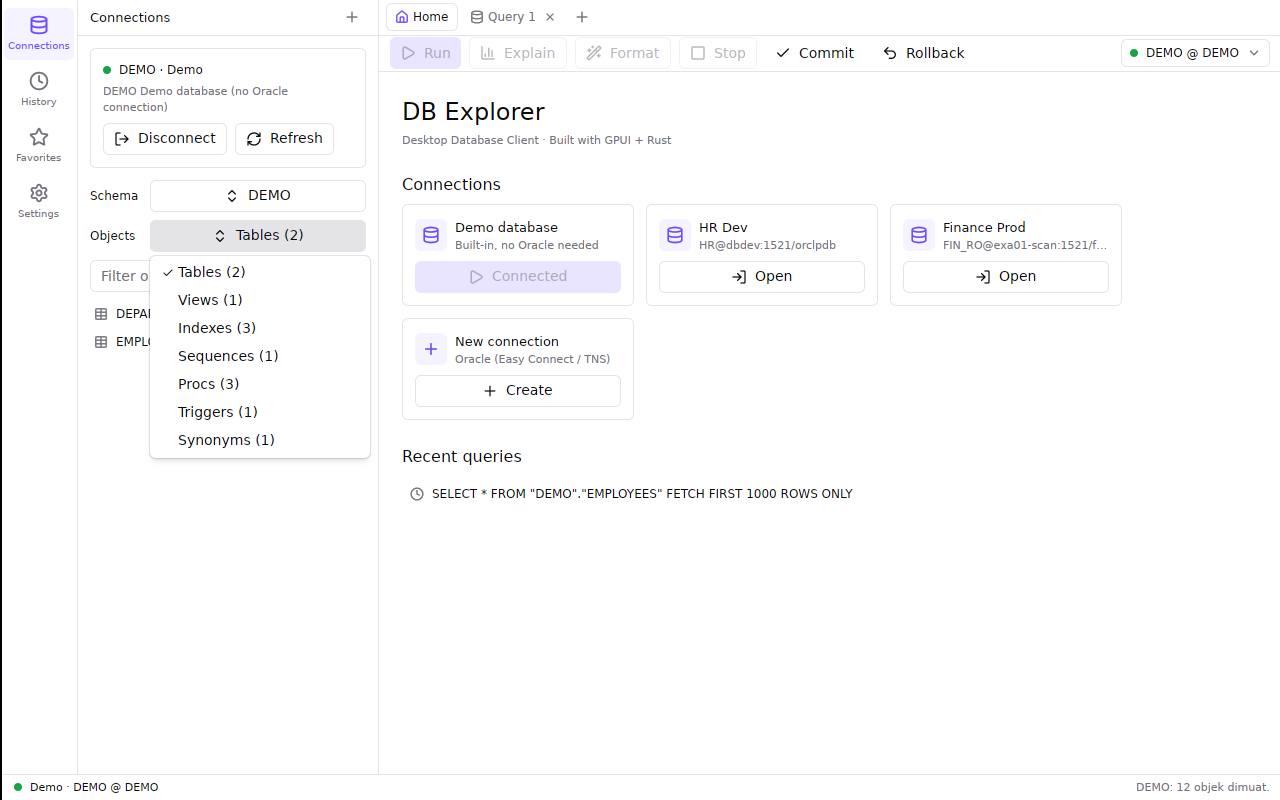
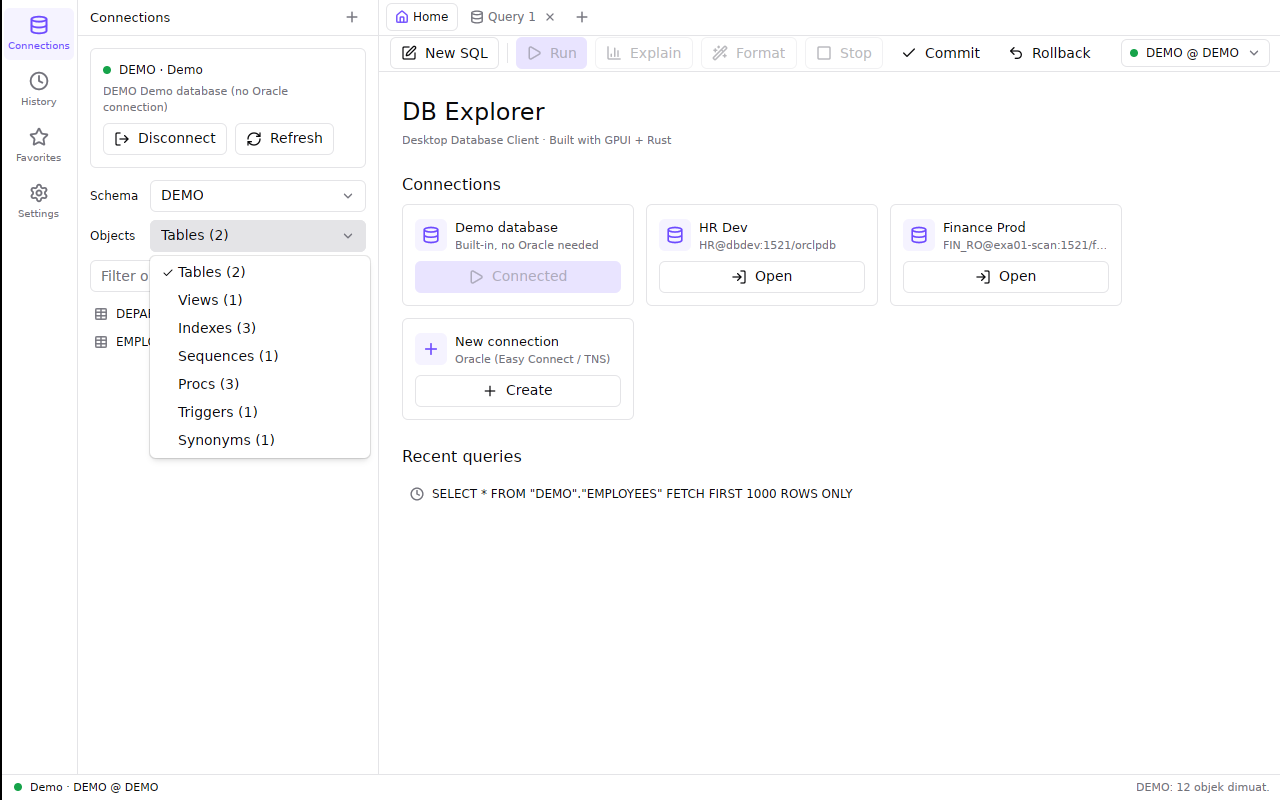
fix(app): rata kiri isi dropdown schema dan jenis objek
Claude-Session: https://claude.ai/code/session_01VYjtnQEPZpDZhWmpvkRxNR

diff --git a/crates/app/src/workbench.rs b/crates/app/src/workbench.rs
@@ -2057,8 +2057,10 @@ impl Workbench {
         let schemas = self.schemas.clone();
         let current = self.current_schema.clone();
         let schema_button = Button::new("schema-select")
-            .label(current.clone().unwrap_or_else(|| "(schema)".to_string()))
-            .icon(IconName::ChevronsUpDown)
+            .child(select_trigger(
+                current.clone().unwrap_or_else(|| "(schema)".to_string()),
+                theme,
+            ))
             .w_full()
             .disabled(self.schemas.is_empty())
             .dropdown_menu(move |menu, _, _| {
@@ -2085,12 +2087,14 @@ impl Workbench {
             .collect();
         let current_category = self.category;
         let category_button = Button::new("category-select")
-            .label(format!(
-                "{} ({})",
-                current_category.label(),
-                schema::count_in(&self.objects, current_category)
+            .child(select_trigger(
+                format!(
+                    "{} ({})",
+                    current_category.label(),
+                    schema::count_in(&self.objects, current_category)
+                ),
+                theme,
             ))
-            .icon(IconName::ChevronsUpDown)
             .w_full()
             .dropdown_menu(move |menu, _, _| {
                 let mut menu = menu.min_w(px(220.));
@@ -3690,6 +3694,20 @@ fn empty_state_text(text: String, theme: &gpui_kit::component::Theme) -> gpui_ki
         .line_height(px(LEADING_LABEL))
         .text_color(theme.muted_foreground)
         .child(text)
+}
+
+/// Content of a select-style dropdown button: the value left aligned and a
+/// chevron on the right, like a native select (Button centers its label).
+fn select_trigger(text: String, theme: &gpui_kit::component::Theme) -> gpui_kit::Div {
+    div()
+        .flex()
+        .flex_row()
+        .items_center()
+        .w_full()
+        .min_w(px(0.))
+        .gap(px(SPACE_2))
+        .child(div().flex_1().min_w(px(0.)).truncate().child(text))
+        .child(icon(IconName::ChevronDown, 14., theme.muted_foreground))
 }
 
 /// Messages are plain strings; ORA-/driver errors and Indonesian failure
